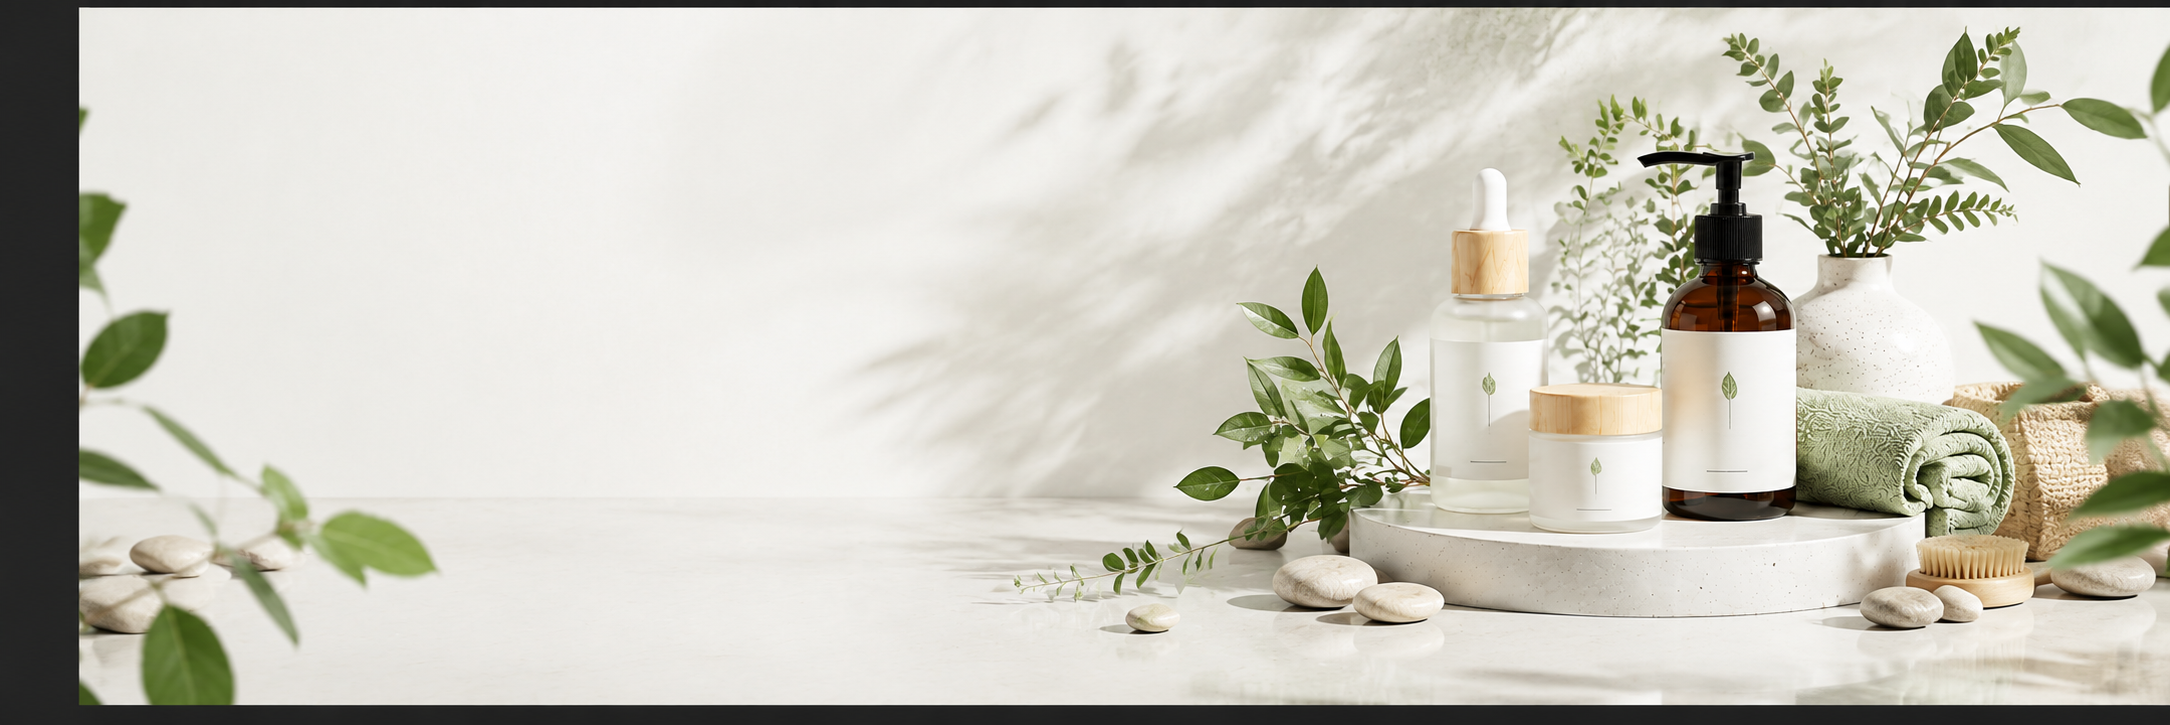
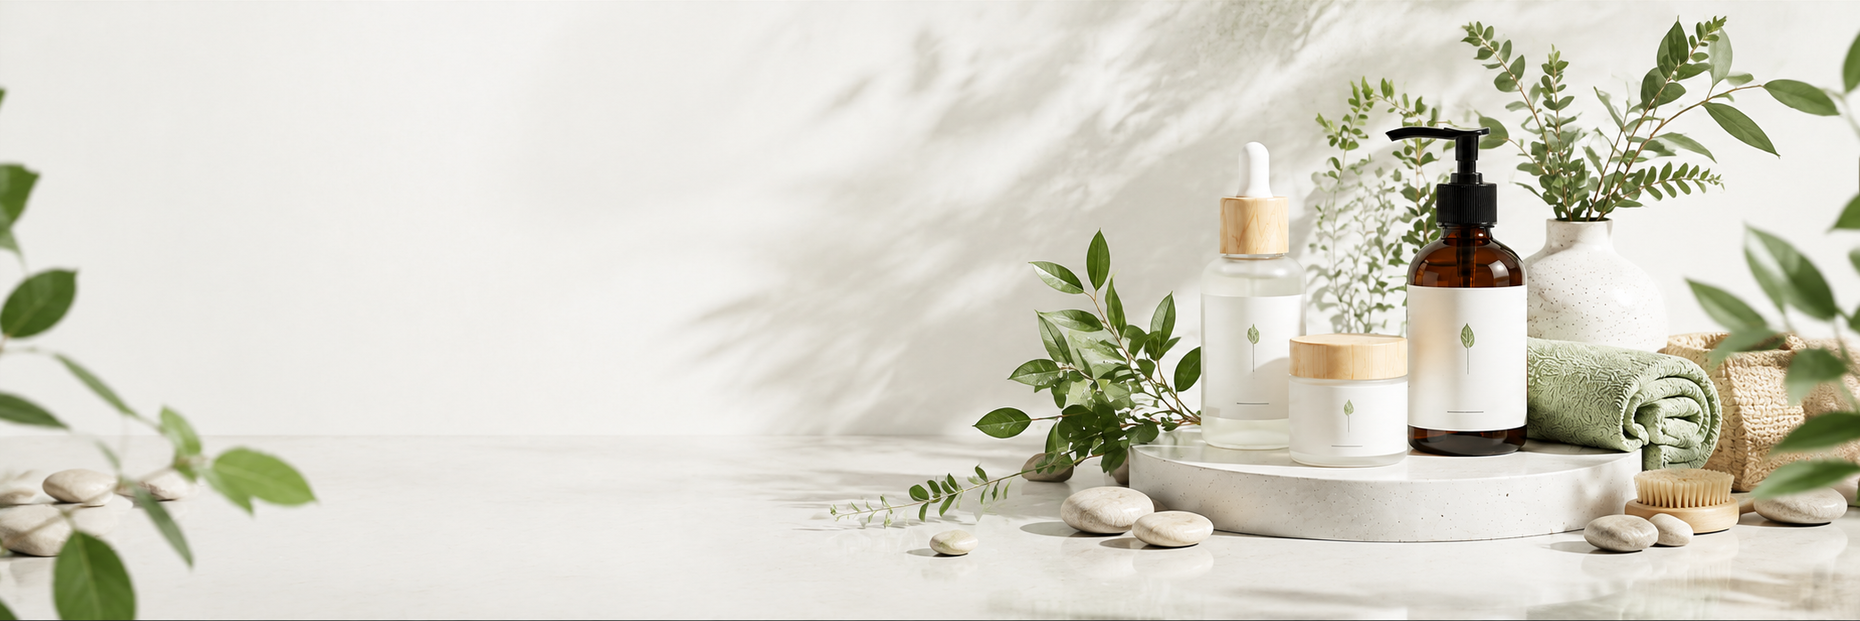
refactor: category model and category html page

diff --git a/src/app/features/Home/category-home/category-home.component.html b/src/app/features/Home/category-home/category-home.component.html
@@ -1,10 +1,10 @@
 <section class="py-10">
     <div class="container mx-auto">
          <h2 class="text-3xl font-semibold">Shop By <span class="text-primary">Category</span></h2>
-         <div class="mt-6 grid sm:grid-cols-2 md:grid-cols-3 lg:grid-cols-4 xl:grid-cols-6 gap-4">
+         <div class="mt-6 grid sm:grid-cols-2 md:grid-cols-3 lg:grid-cols-4 xl:grid-cols-5 gap-4">
             @for (category of categoriesList(); track category.id) {
-                <div class="shadow rounded  p-7 flex text-center flex-col items-center">
-                <img [src]="category.image" class="size-20 rounded-full" [alt]="category.name">
+                <div class="shadow  p-5 flex text-center flex-col items-center hover:shadow-md transition-shadow">
+                <img [src]="baseUrl  + category.imageUrl" class="size-28 rounded-full object-cover" [alt]="category.name">
                 <h3 class="font-medium mt-3">{{category.name}}</h3>
             </div>
             }

diff --git a/src/app/features/Home/category-home/category-home.component.ts b/src/app/features/Home/category-home/category-home.component.ts
@@ -2,6 +2,7 @@ import { Component, inject, signal } from '@angular/core';
 import { CatalogService } from '../../../core/services/catalog.service';
 import { Category } from '../../../core/models/product/Category.model';
 import { TwoStaticComponent } from '../two-static/two-static.component';
+import { environment } from '../../../../environments/environment';
 
 @Component({
   selector: 'app-category-home',
@@ -11,7 +12,7 @@ import { TwoStaticComponent } from '../two-static/two-static.component';
 })
 export class CategoryHomeComponents {
   private readonly categoriesService = inject(CatalogService);
-
+  readonly baseUrl = environment.apiUrl ;
   categoriesList = signal<Category[]>([])
   ngOnInit(): void {
     this.getCategoriesData();

diff --git a/src/app/features/Home/product/product.component.html b/src/app/features/Home/product/product.component.html
@@ -33,7 +33,7 @@
                 </div>
 
                 <div class="space-y-1">
-                    <p class="text-xs text-gray-400 tracking-wide">{{product.type?.name}}</p>
+                    <!-- <p class="text-xs text-gray-400 tracking-wide">{{product.type?.name}}</p> -->
 
                     <h3 class="text-lg font-medium text-slate-800 hover:text-emerald-600 cursor-pointer transition-colors">
                         {{product.title}}

diff --git a/src/app/core/models/product/Product.model.ts b/src/app/core/models/product/Product.model.ts
@@ -10,7 +10,7 @@ export interface Product {
   description: string;
   summary: string;
   price: number;
-  imageUrl: string;
+  ImageUrls : string[];
   ratingsAverage: number;
   ratingsQuantity: number;
 

diff --git a/src/app/core/models/product/Category.model.ts b/src/app/core/models/product/Category.model.ts
@@ -1,6 +1,6 @@
 export interface Category {
     id: number;
     name: string;
-    image: string;
+    imageUrl: string;
 
 }
